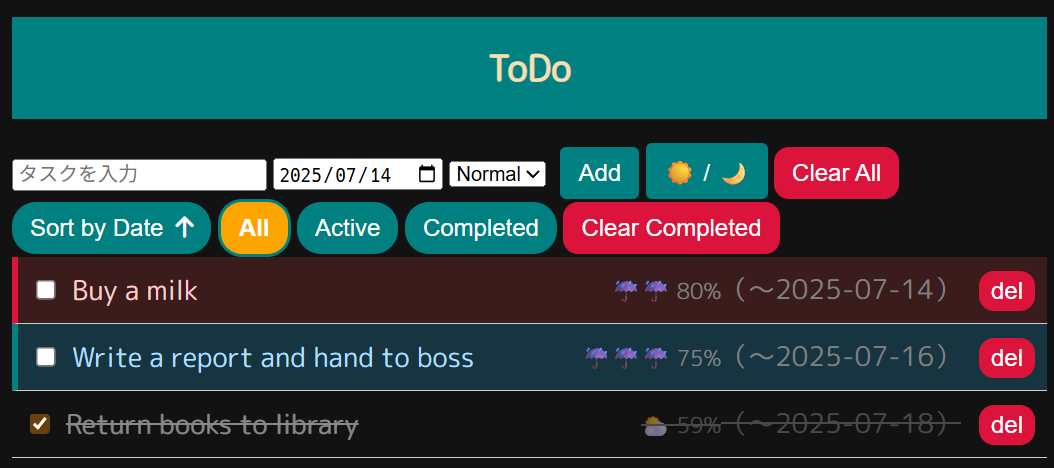
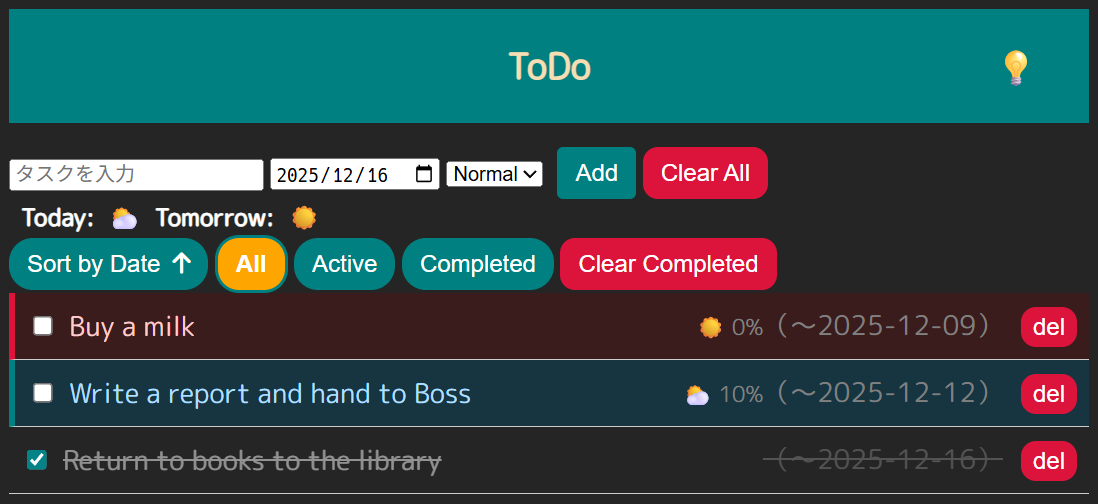
feat(readme): README の機能説明と最新スクショ2枚を更新
ToDo アプリの現状仕様と UI を正確に伝えるため、README の機能一覧とスクリーンショットを最新状態に更新する。

- 主な機能一覧に以下を追記・整理
  - 優先度による背景色変更
  - ダブルクリックでのタスク名編集
  - ダーク/ライトテーマ切替
  - LocalStorage 自動保存
  - 完了タスクの一括削除
  - 天気アイコン表示（Open-Meteo API）
- ライブデモ・技術スタックの記述を微調整
- README 冒頭のスクリーンショット2枚を最新 UI に差し替え
- 全体の読みやすさを向上するため軽微なレイアウト調整

README が現行バージョンの仕様と UI に一致し、初見ユーザーにもアプリ内容が正しく伝わる状態になった。

Changed region(s): [[0.0, 0.0, 1.0, 0.9872], [0.4554, 0.0897, 0.5465, 0.1795], [0.9108, 0.0897, 0.9412, 0.1795]]

diff --git a/README.md b/README.md
@@ -9,21 +9,25 @@
 </p>
 <!-- markdownlint-disable MD033 -->
 
-これは、カジュアルに使えるシンプルな ToDo リストアプリです。ブラウザ上で完結し、リロード後も入力内容が保存されます。
-This is a simple and casual ToDo list app. All tasks are saved locally and remain available even after reloading the browser.
+このアプリは、ブラウザだけで気軽に使える **シンプルな ToDo リスト** です。
+タスクは自動的にローカル保存され、ページを再読み込みしても消えません。
+
+This is a simple and lightweight ToDo application.
+Tasks are saved locally and persist across browser reloads.
 
 ---
 
 ## 🚀 主な機能 / Features
 
-- タスクの追加・編集・削除
-  Add, edit, and delete tasks
-- 期限日の設定と日付順ソート
-  Set due dates and sort by date
-- タスクの状態でのフィルタ（完了／未完了）
-  Filter tasks by status (completed / incomplete)
-- 現地の天気アイコン表示（Open-Meteo API 使用）
-  Display current weather using Open-Meteo API
+- ✏ **タスクの追加・編集・削除**
+- 🎨 **優先度による背景色の自動変更（High / Normal / Low）**
+- 🖱 **タスク名のダブルクリック編集（DblClick Edit）**
+- 📅 **期限日の設定と日付順ソート**
+- ✔ **ステータス（完了 / 未完了）フィルタ**
+- 📌 **タスクの編集内容は自動保存（LocalStorage）**
+- ⚠ **完了タスクのまとめて削除（Clear Completed）**
+- 🌙 **ライト / ダークテーマ切替**
+- ☀ **現在地の天気アイコン表示（Open‑Meteo API）**
 
 ---
 
@@ -33,34 +37,35 @@ This is a simple and casual ToDo list app. All tasks are saved locally and remai
 
 ---
 
-## 🛠 使用技術 / Technologies Used
+## 🛠 使用技術 / Tech Stack
 
-- HTML
-- CSS
-- JavaScript
+- HTML / CSS / JavaScript
 - Open-Meteo API
 
 ---
 
-## 💻 ローカルでの動作方法 / How to Run Locally
+## 💻 ローカルでの実行方法 / How to Run Locally
 
 ```bash
 git clone https://github.com/Nikuman1123/Todo.git
 cd Todo
-# index.html をブラウザで開いてください
+# index.html をブラウザで開くだけ
 # Just open index.html in your browser
 ```
 
 ---
 
-## 🙋♂ 自己紹介 / Author Note
+## 🙋♂ 制作者より / Author Note
 
-これは HTML / CSS / JavaScript の学習用に作成したアプリです。自由にご利用ください。
-This app was built as a learning project for HTML, CSS, and JavaScript. Feel free to explore and modify it.
+HTML / CSS / JavaScript の学習を目的として作成したアプリです。
+自由にクローン・改変してご利用ください。
+
+This app was built for learning purposes.
+Feel free to explore, modify, and use it.
 
 ---
 
 ## 📄 ライセンス / License
 
-このリポジトリには特別なライセンスは設定されていません。
-No specific license is applied to this repository.
+特別なライセンスは設定していません。
+No specific license is applied.
